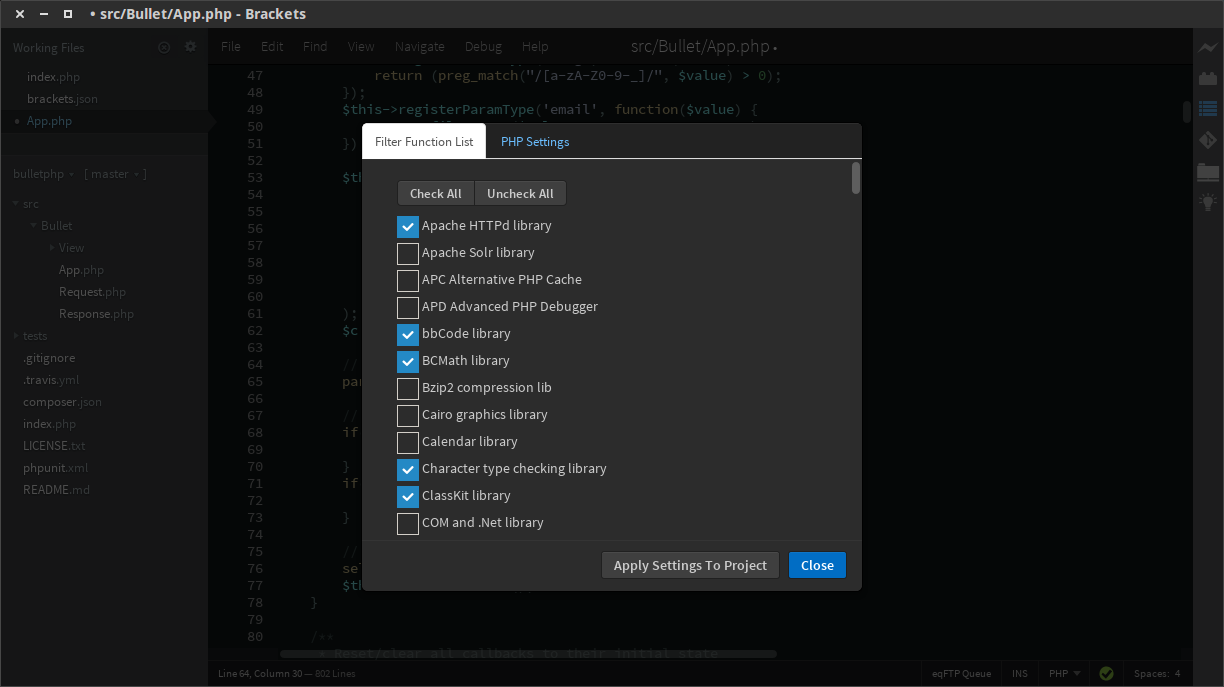
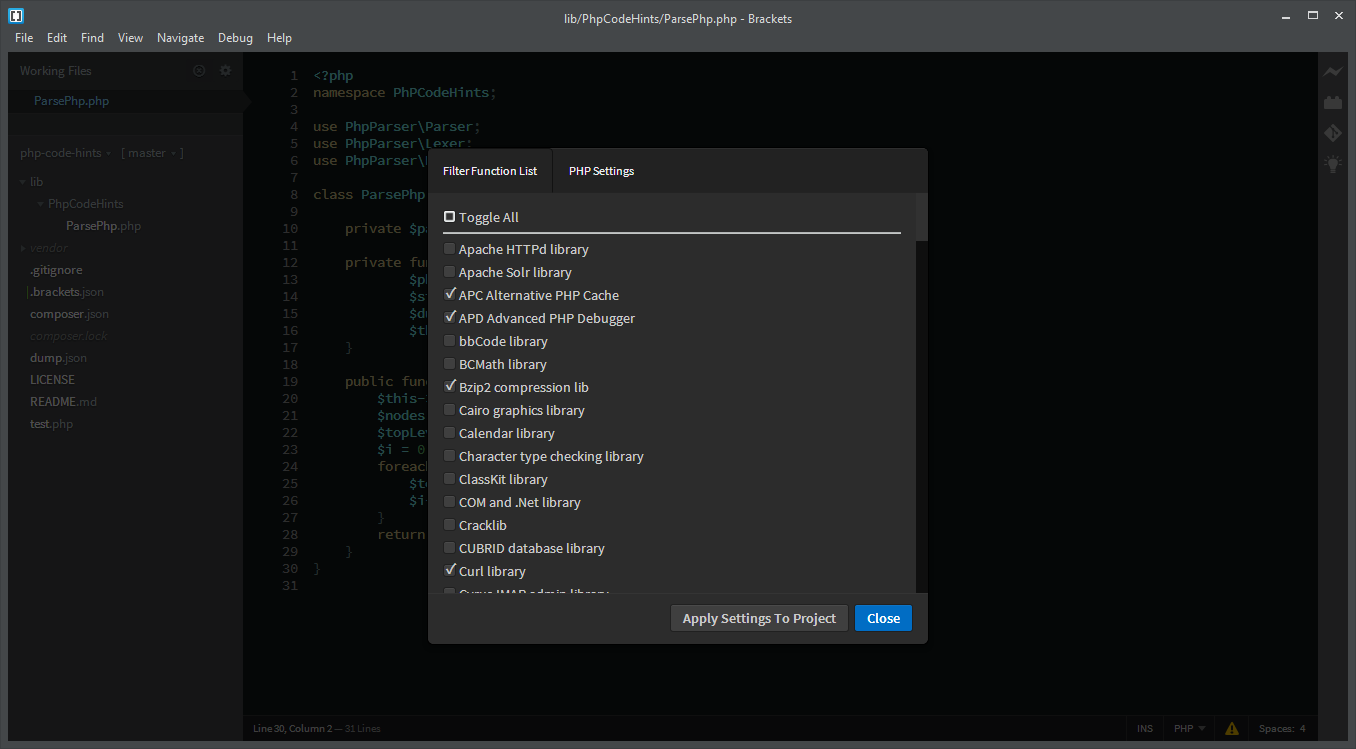
final work for release 1.1.1

diff --git a/CHANGELOG.md b/CHANGELOG.md
@@ -1,0 +1,35 @@
+# Change Log
+All notable changes to this project will be documented in this file.
+
+## 1.1.1 - 2014-09-04
+
+### Added
+- Fix for [issue #13](https://github.com/Brackets-PHP-SIG/Brackets-PHP-SmartHints/issues/13)
+- Changed checkboxes of settings dialog to be more "like Brackets default" based on [PR #14](https://github.com/Brackets-PHP-SIG/Brackets-PHP-SmartHints/pull/14) - thanks [@Hirse](https://github.com/Hirse)
+- Fix for unlogged issue where uncaught exception is raised when getting local $ variables if none already exist in the document
+- Updated dialog screenshot to reflect new checkbox UI
+- Removed changelog from readme and added this CHANGELOG.md file to track changes
+
+### Removed
+- pulled out the files associated with the iCheck jQuery plugin I was using for the checkboxes.
+- the two buttons for "Select All" and "Unselect All" were replaced by a tri-state checkbox for the same purpose as per [PR #14](https://github.com/Brackets-PHP-SIG/Brackets-PHP-SmartHints/pull/14)
+
+## 1.1.0 - 2014-08-28
+
+### Added
+- Fix for [issue #9](https://github.com/Brackets-PHP-SIG/Brackets-PHP-SmartHints/issues/9)
+- Fix for [issue #12](https://github.com/Brackets-PHP-SIG/Brackets-PHP-SmartHints/issues/12)
+- Tthe ability to filter the suggested hints by their grouping in PHP.
+- Toolbar icon to handle the User Interface for selecting/de-selecting PHP function groups (you can also edit `.brackets.json` in the project root) (addresses issue #3)
+- Re-factored most of the code around getting and inserting hints.  Using the Brackets utility library `utils/TokenUtils.js` for token handling.
+
+## 1.0.1 - 2014-08-10
+
+### Added
+- Fix for [issue #5](https://github.com/Brackets-PHP-SIG/Brackets-PHP-SmartHints/issues/5)
+- Fix for [issue #7](https://github.com/Brackets-PHP-SIG/Brackets-PHP-SmartHints/issues/7)
+
+## 1.0.0 - 2014-08-08
+
+### Added
+- Initial release of planned Phase 1 features

diff --git a/README.md b/README.md
@@ -42,22 +42,7 @@ The filter can be set in one of two ways:
 
 ####Changelog
 
-**v1.0.0**
+[CHANGELOG](CHANGELOG.md)
 
-* Initial release with Phase 1 features
-
-**v1.0.1**
-
-* Fix for issue #5
-* Fix for issue #7
-
-**v1.1.0**
-
-* Fix for issue #9
-* Fix for issue #12
-* New: Added the ability to filter the suggested hints by their grouping in PHP.
-* New: Added toolbar icon to handle the User Interface for selecting/de-selecting PHP function groups (you can also edit `.brackets.json` in the project root) (addresses issue #3)
-* Changed: re-factored most of the code around getting and inserting hints.  Using the Brackets utility library `utils/TokenUtils.js` for token handling.
-
-> *note* - you should also check out the execellent [PHP Code Quality Tools](https://github.com/mikaeljorhult/brackets-php-code-quality-tools) extension from [Mikael Jorhult](https://github.com/mikaeljorhult) for PHP linting and code style checking.  Mikael is also a member
+*note* - you should also check out the execellent [PHP Code Quality Tools](https://github.com/mikaeljorhult/brackets-php-code-quality-tools) extension from [Mikael Jorhult](https://github.com/mikaeljorhult) for PHP linting and code style checking.  Mikael is also a member
 of the *Brackets PHP SIG*.
